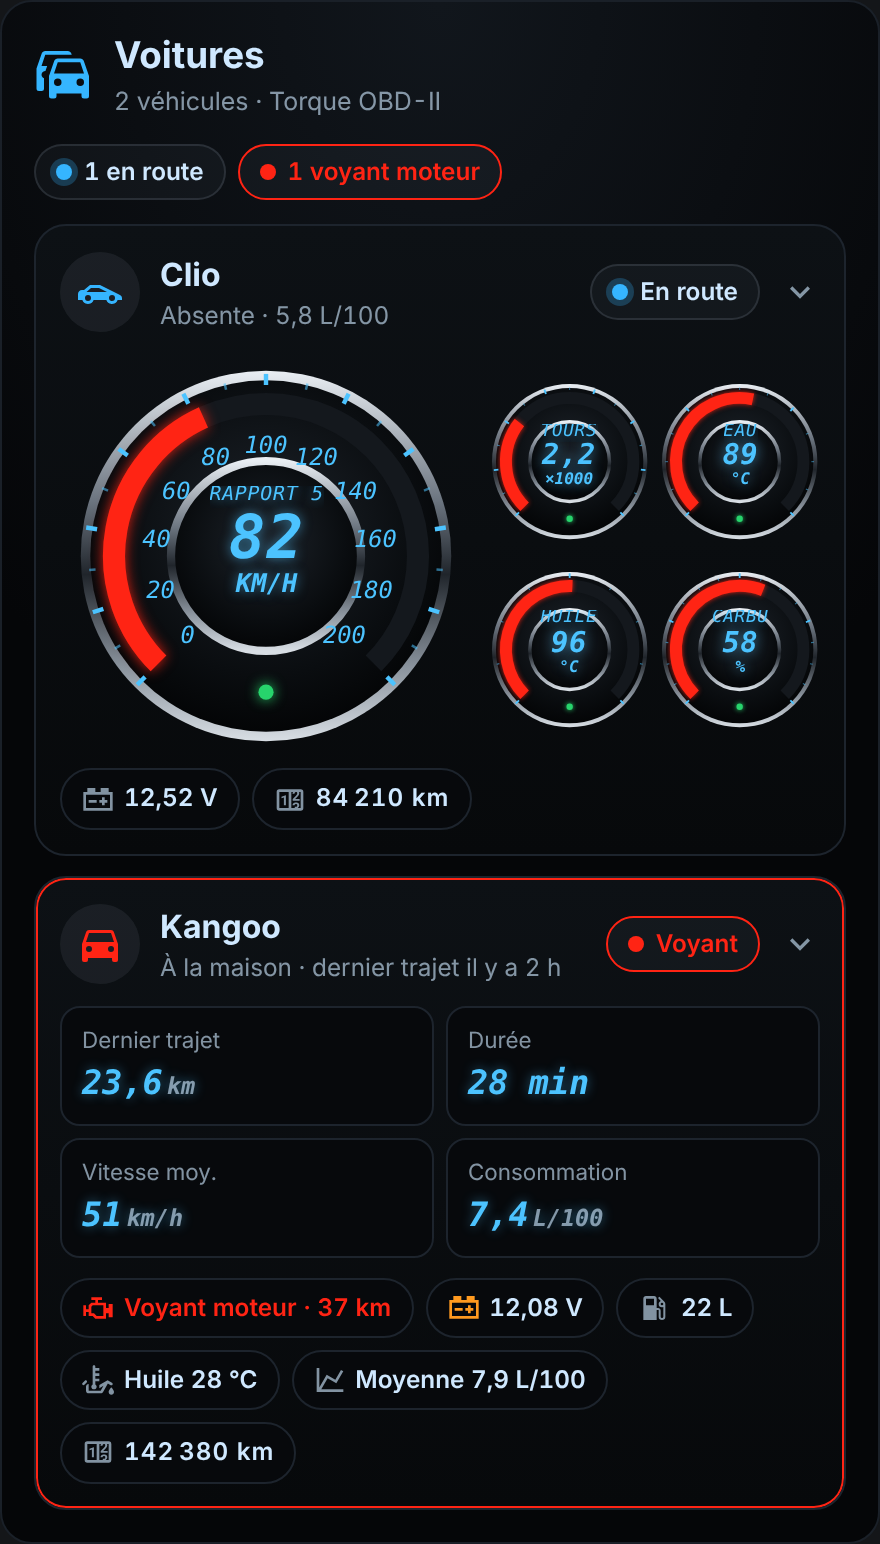
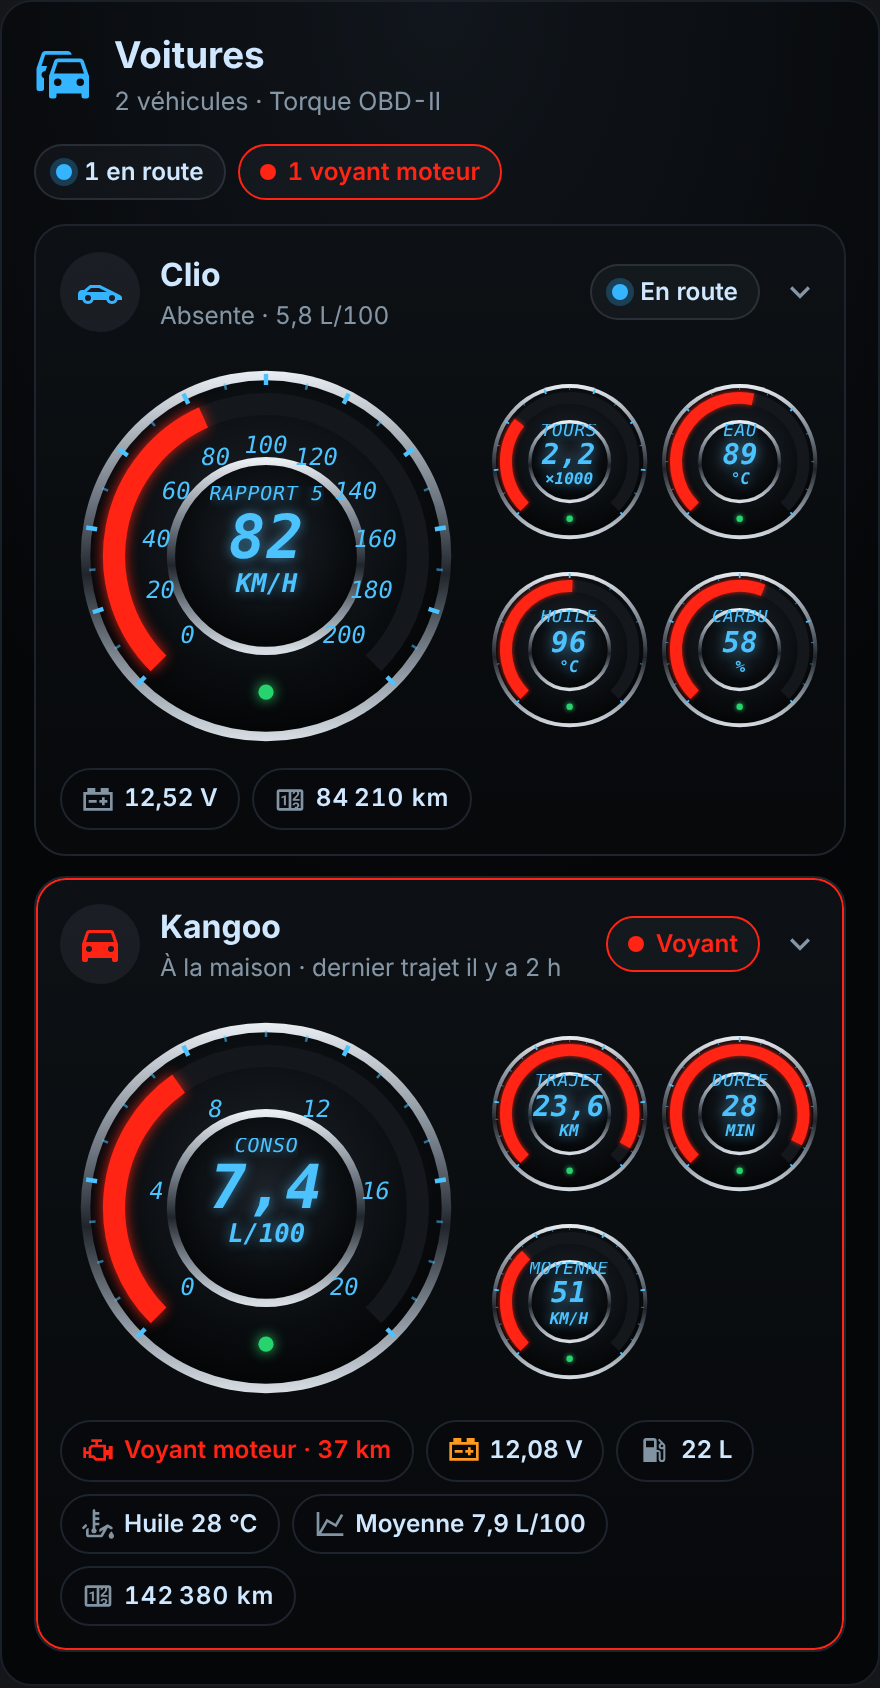
feat(web): thème obd, dernier trajet en cadrans quand la voiture est garée (0.2.0-beta.2)
Claude-Session: https://claude.ai/code/session_01CSixJnFf4qBMac7uTfNvnW

diff --git a/voitures-cards.js b/voitures-cards.js
@@ -11,7 +11,7 @@
  */
 
 (() => {
-const CARD_VERSION = "0.2.0-beta";
+const CARD_VERSION = "0.2.0-beta.2";
 
 /* ------------------------------------------------------------- utilitaires */
 
@@ -1347,7 +1347,26 @@ class MaisonTorqueCard extends MaisonCard {
         const km = pos(r.trip_km);
         const trip = `${k("Dernier trajet", km !== null ? fmt(km, 1) : null, "km", r.trip_km)}${k("Durée", mov !== null ? (mov < 60 ? "< 1 min" : hm(mov / 60)) : null, "", r.trip_time || r.trip_moving)}` +
           `${k("Vitesse moy.", pos(r.trip_avg) !== null ? fmt(pos(r.trip_avg)) : null, "km/h", r.trip_avg)}${km !== null && pos(r.trip_l100) !== null ? k("Consommation", fmt(pos(r.trip_l100), 1), "L/100", r.trip_l100) : ""}`;
-        main = trip ? `<div class="vd-trip">${trip}</div>` : `<div class="vd-none">Aucun trajet en mémoire : il s'affichera après le prochain parcours.</div>`;
+        const avg = pos(r.trip_avg), tl = km !== null ? pos(r.trip_l100) : null;
+        if (c.theme === "obd" && trip) {
+          // thème obd : le dernier trajet en cadrans ; échelle choisie selon la valeur
+          const top = (x, steps) => steps.find((m) => x <= m) ?? steps[steps.length - 1];
+          const sc = (m, n = 5) => Array.from({ length: n + 1 }, (_, i) => Math.round((m * i) / n));
+          const kmMax = km !== null ? top(km, [10, 25, 50, 100, 250, 500, 1000]) : 10;
+          const minMax = mov !== null ? top(mov / 60, [15, 30, 60, 120, 240, 480]) : 15;
+          const dAvg = (big) => dialHtml(this, { label: "Vitesse moyenne", short: "Moyenne", value: avg !== null ? fmt(avg) : "—", unit: "km/h", frac: avg === null ? null : avg / 150, id: r.trip_avg, big, ticks: big ? 10 : 0, scale: [0, 30, 60, 90, 120, 150] });
+          const side = [
+            km !== null ? dialHtml(this, { label: "Dernier trajet", short: "Trajet", value: fmt(km, 1), unit: "km", frac: km / kmMax, id: r.trip_km, scale: sc(kmMax) }) : "",
+            mov !== null ? dialHtml(this, { label: "Durée", short: "Durée", value: mov < 60 ? "< 1" : fmt(mov / 60), unit: "min", frac: mov / 60 / minMax, id: r.trip_time || r.trip_moving, scale: sc(minMax, 4) }) : "",
+            tl !== null && avg !== null ? dAvg(false) : "",
+          ].filter(Boolean).join("");
+          const big = tl !== null
+            ? dialHtml(this, { label: "Consommation du trajet", short: "Conso", value: fmt(tl, 1), unit: "L/100", frac: tl / 20, id: r.trip_l100, big: true, ticks: 10, scale: [0, 4, 8, 12, 16, 20] })
+            : avg !== null ? dAvg(true) : "";
+          main = big ? `<div class="vd-dash${side ? "" : " solo"}">${big}${side ? `<div class="vd-side">${side}</div>` : ""}</div>` : `<div class="vd-trip">${trip}</div>`;
+        } else {
+          main = trip ? `<div class="vd-trip">${trip}</div>` : `<div class="vd-none">Aucun trajet en mémoire : il s'affichera après le prochain parcours.</div>`;
+        }
       }
       const bat = c.show_battery !== false ? n(r.battery) : null;
       const pills = [

diff --git a/README.md b/README.md
@@ -79,7 +79,7 @@ Toutes les cartes acceptent `theme` :
 | `maison` | Suit votre thème Home Assistant (clair ou sombre), avec des touches de couleur pastel |
 | `auto` | Style MyElectricalData, clair ou sombre selon Home Assistant |
 | `ha` | Couleurs du thème Home Assistant |
-| `obd` | Tableau de bord façon application OBD : cadrans noirs à lunette chromée, arc rouge, graduations et chiffres bleu cyan |
+| `obd` | Tableau de bord façon application OBD : cadrans noirs à lunette chromée, arc rouge, graduations et chiffres bleu cyan ; voiture garée, le dernier trajet s'affiche aussi en cadrans |
 
 ## Voiture électrique ou hybride rechargeable — `custom:voiture-electrique-card`
 
